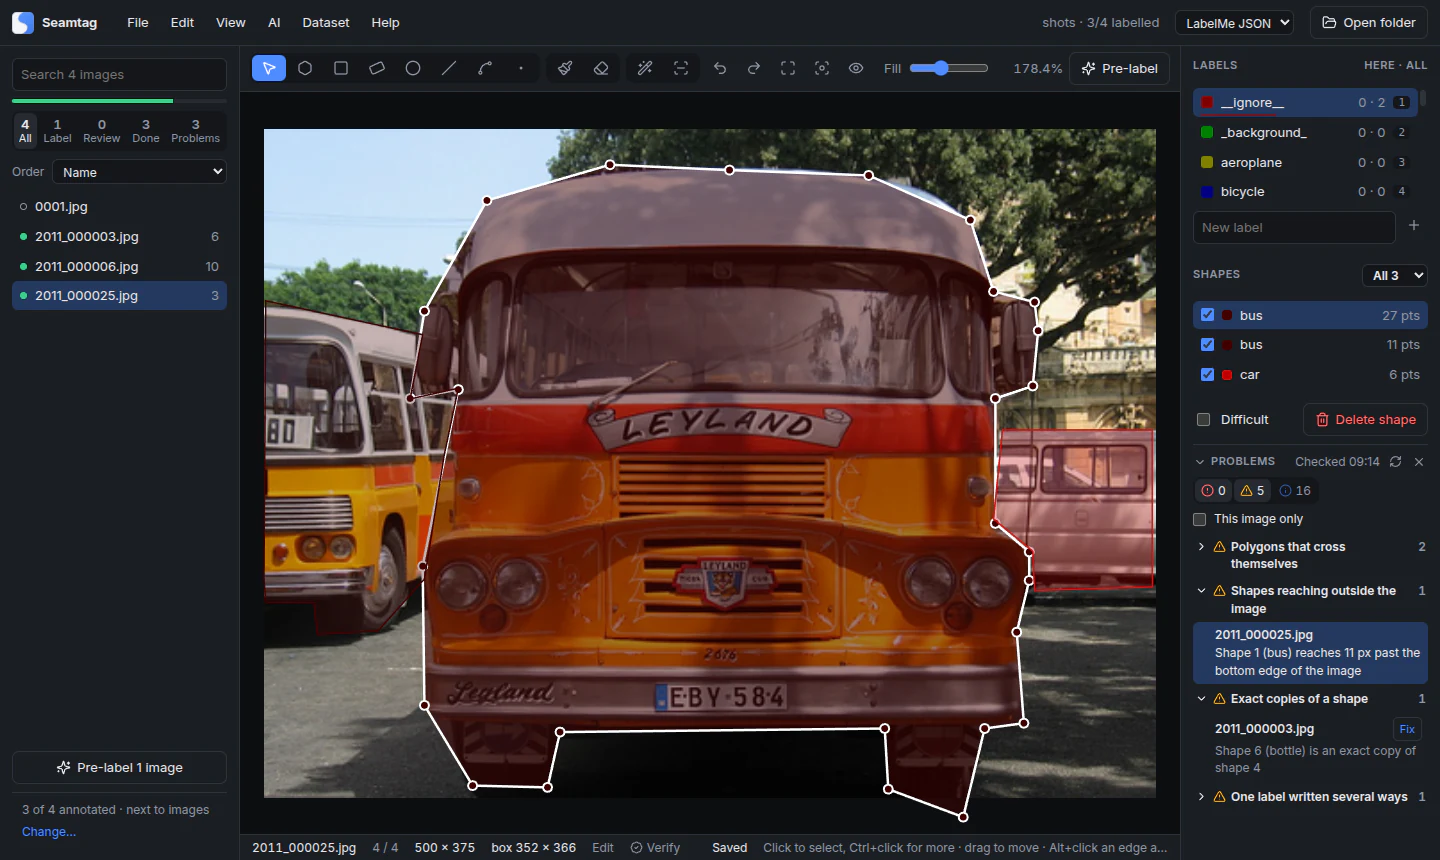
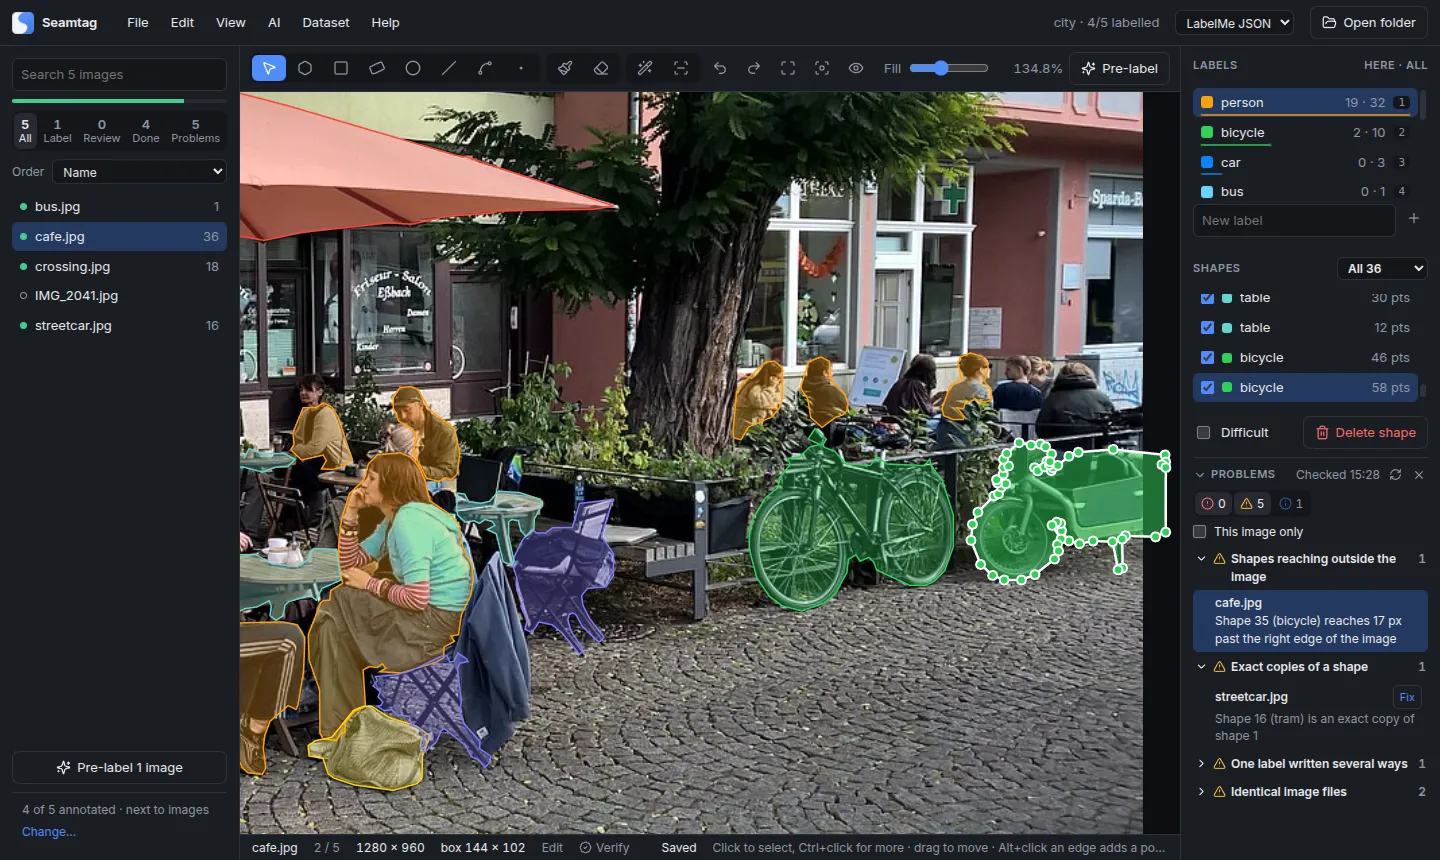
Retake the README's screenshots on public-domain photos
- All six show four CC0 photos from Wikimedia Commons (a crossing in Amsterdam, a café in Erfurt,
  a bus, a San Francisco street) in place of the PASCAL VOC photos from labelme's examples.
- NOTICE.md lists where each photo comes from.

diff --git a/README.md b/README.md
@@ -11,7 +11,7 @@
   <a href="LICENSE"><img src="https://img.shields.io/badge/license-GPL--3.0--only-blue" alt="GPL-3.0-only"></a>
 </p>
 
-![Seamtag editing a polygon around a person in a photo](docs/media/label.webp)
+![Seamtag editing a polygon around a person pushing a pram on a city crossing](docs/media/label.webp)
 
 Seamtag is a desktop app for labelling images. Each image's labels are saved in a file beside it, as LabelMe JSON, Pascal VOC, YOLO or CreateML, so a folder labelled in labelme or LabelImg opens as it is, and they open Seamtag's files too. Everything runs on your computer: images, labels and AI models never leave it.
 
@@ -25,9 +25,9 @@ Seamtag is a desktop app for labelling images. Each image's labels are saved in 
 
 **AI points, AI box and the text prompt.** Click an object, or drag a box around it, and the model outlines it; Shift+click marks background. What it finds becomes the shape picked beside the tool: polygons (one for each part of the object, grouped), a mask, a rectangle, a circle or a rotated box. Repeats of one object are dropped, and with `ai.suppress_existing_shape_matches` so are objects already drawn. The text prompt takes words, such as `dog,cat`, and boxes everything they name with YOLO-World, each box labelled with its word and score. The models are EfficientSAM in two sizes, SAM2 in three, and YOLO-World, run as ONNX files. Each is downloaded once, when you agree, into `~/.cache/osam`, the folder labelme keeps its models in too, so a model either app has downloaded is there for the other; AI → AI models lists them, with their sizes and licences, and downloads or deletes them. SAM and SAM 3 aren't offered: their image encoders need blocks of memory larger than Electron allows.
 
-![SAM2 outlining a bus from two clicks](docs/media/ai.webp)
+![SAM2 outlining a red bus from two clicks](docs/media/ai.webp)
 
-![YOLO-World boxing the people and the bottle in a photo from the words person,bottle](docs/media/text.webp)
+![YOLO-World boxing the people and the bicycles at a pavement café from the words person,bicycle](docs/media/text.webp)
 
 **Pre-label with your own model.** Point it at a segmentation model exported to ONNX, for example from [Seamline](https://github.com/jakhon37/Seamline), and it proposes shapes for every unlabelled image, each with a score. Proposals stay dashed until you accept them: `W` accepts, `S` rejects, `Tab` skips, and the list can put the least certain images first.
 
@@ -37,15 +37,15 @@ Seamtag is a desktop app for labelling images. Each image's labels are saved in 
 
 **Labels that are hard to lose.** Saves go through one queue to a temporary file and then into place. A label file that can't be read is shown read-only and never written over, and closing the window saves first, or asks when saving isn't automatic.
 
-![The label dialog, with flags for the person label, a group ID and a description](docs/media/dialog.webp)
+![The label dialog for the person pushing the pram, with the flags occluded and truncated, group ID 1 and a description](docs/media/dialog.webp)
 
 **Check a folder's labels.** Dataset → Check labels reads every label file in the folder and lists what it finds in a Problems panel under the shapes. As errors and warnings: label files or images that can't be read, label files that give another image size, name another image, have no image or serve several images, masks that can't be read, shapes with no label, the wrong number of points or no area, repeated points, polygons that cross themselves, shapes reaching outside the image, exact and near copies, one label written several ways (`Cat` and `cat`) or missing from the label list, AI proposals not yet accepted, and identical images. As notes, hidden until asked for: images never labelled, labelled with no shapes or not verified, and labels in the list that no shape uses. That's 23 checks in all. Clicking a problem opens its image with the shape selected. Repeated points, exact copies and boxes past the image's edge have a Fix, undone like any edit, and a label can be renamed in every label file of the folder, from the Problems panel or Statistics, with the old files sent to the trash. An image is checked again as it's saved, and the image list can show only the images with an error or a warning. Dataset → Statistics counts images by state, objects and images by label with each label's shapes by type, objects per image, object sizes as COCO ranges them at full size and at a training size, and image sizes, and saves the labels table as CSV.
 
-![The Problems panel after Dataset → Check labels, with a bus outline that reaches below its photo picked from its row](docs/media/check.webp)
+![The Problems panel after Dataset → Check labels, with a cargo bike outline that reaches past its photo's right edge picked from its row](docs/media/check.webp)
 
 **COCO and YOLO datasets.** File → Export dataset writes the folder as COCO (objects, or objects with keypoints) or Ultralytics YOLO (detect, segment, pose or rotated boxes, with its `data.yaml`): whole, split by ratio with a seed, or split as its folders already are, with the images copied, hard-linked or, for COCO, left where they are. Everything is checked before anything is written, including what each format can't hold, and the dataset appears in its folder only once it's complete. File → Import dataset reads a COCO file or a YOLO dataset (Ultralytics', Roboflow's, CVAT's or X-AnyLabeling's layout) into each image's own label file, as LabelMe JSON whatever the save format. Images are matched by their path, or by a file name only one image on each side has, and never guessed: a name that fits several images is listed and left out. Images that already have labels are skipped, added to or replaced; a replaced file, or a Pascal VOC, YOLO or CreateML file added to, goes to the trash. The image's own label file stays the one you work on; datasets are made from it and read into it.
 
-![The Export dataset window splitting three photos 70/20/10 for YOLO segment, with each split's counts and two warnings](docs/media/export.webp)
+![The Export dataset window splitting four street photos 70/20/10 for YOLO segment, with each split's counts and two warnings](docs/media/export.webp)
 
 ## Install
 

diff --git a/NOTICE.md b/NOTICE.md
@@ -175,6 +175,15 @@ NEGLIGENCE OR OTHERWISE) ARISING IN ANY WAY OUT OF THE USE OF THIS
 SOFTWARE, EVEN IF ADVISED OF THE POSSIBILITY OF SUCH DAMAGE.
 ```
 
+## Photos in the README
+
+The README's screenshots show four photos from Wikimedia Commons. Each photographer dedicated theirs to the public domain under CC0 1.0, so no credit is required; this is where they come from:
+
+- [A pedestrian crossing over Stadhouderskade, Amsterdam](https://commons.wikimedia.org/wiki/File:2023_Amsterdam_poto_-_Woman_are_walking_the_pedestrian_crossing_over_the_city_road_Stadhouderskade_in_early_Spring_sunlight;_free_download_photo_in_high_resolutions_by_Fons_Heijnbroek_,_street_photography_in_The_Netherlands,_CCO.jpg), by Fons Heijnsbroek
+- [Erfurt Cafe Hilge 3](https://commons.wikimedia.org/wiki/File:Erfurt_Cafe_Hilge_3.jpg), by Ousw
+- [Trent Buses (101 - YCH 890M) - 10 August 2025](https://commons.wikimedia.org/wiki/File:Trent_Buses_(101_-_YCH_890M)_-_10_August_2025.jpg), by Aethonatic
+- [Market st. San Francisco.](https://commons.wikimedia.org/wiki/File:Market_st._San_Francisco._(48669724832).jpg), by Bernard Spragg. NZ
+
 ## AI models
 
 The AI models aren't part of Seamtag. Each is downloaded when you ask for it, under its own licence, which AI → AI models shows: EfficientSAM and SAM2 are under the Apache License 2.0, YOLO-World under the GNU GPL v3.0.
